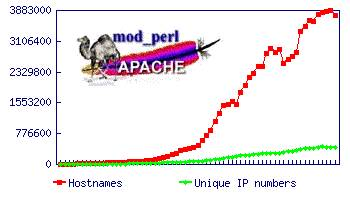
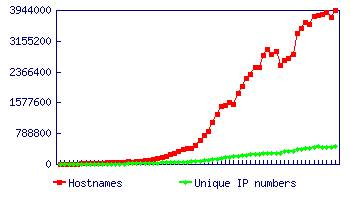
Nov 2002 stats update
git-svn-id: https://svn.apache.org/repos/asf/perl/modperl/docs/trunk@66875 13f79535-47bb-0310-9956-ffa450edef68

diff --git a/src/outstanding/stats/netcraft.html b/src/outstanding/stats/netcraft.html
@@ -24,13 +24,14 @@ survey.
 </p>
 
 <!-- monthly reports can be retrieved from
-http://www.netcraft.com/survey/Reports/0208/mod_perl.txt, adjust the
+http://www.netcraft.com/survey/Reports/0212/mod_perl.txt, adjust the
 year/month if needed. used to be
 http://www.netcraft.com/survey/Reports/200206/mod_perl.txt till July
 2002 -->
 
 <table cellpadding="3" border="1" cellspacing="0">
 <tr><th>Survey</th><th>Hostnames</th><th>Unique IP Addresses</th></tr>
+<tr><td> November 2002  </td><td>3943776</td><td>462402</td></tr>
 <tr><td> October 2002   </td><td>3753202</td><td>434418</td></tr>
 <tr><td> September 2002 </td><td>3882275</td><td>438194</td></tr>
 <tr><td> August 2002    </td><td>3849195</td><td>437944</td></tr>

diff --git a/src/outstanding/stats/securityspace.html b/src/outstanding/stats/securityspace.html
@@ -7,12 +7,12 @@
 <body bgcolor="#ffffff">
 
 <p> SecuritySpace provides an <a
-href="http://www.securityspace.com/s_survey/data/man.200210/apachemods.html?mod=cGVybA==">Apache
+href="http://www.securityspace.com/s_survey/data/man.200211/apachemods.html?mod=cGVybA==">Apache
 Module Report on mod_perl</a> comprising statistics and a graph based
 on the data collected by <a
 href="http://www.securityspace.com/">www.securityspace.com</a>. They
 also feature <a
-href="http://www.securityspace.com/s_survey/data/man.200210/apachemods.html">a
+href="http://www.securityspace.com/s_survey/data/man.200211/apachemods.html">a
 comparison</a> between all the Apache modules they survey.  </p>
 
 </body>
